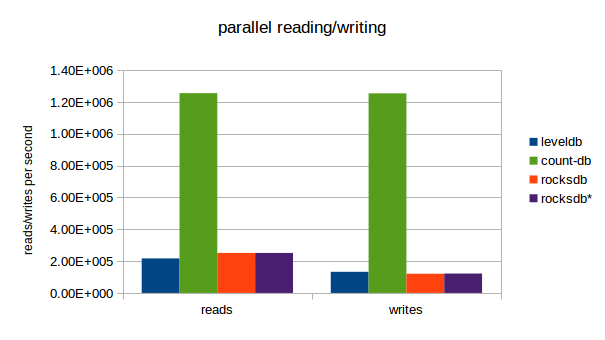
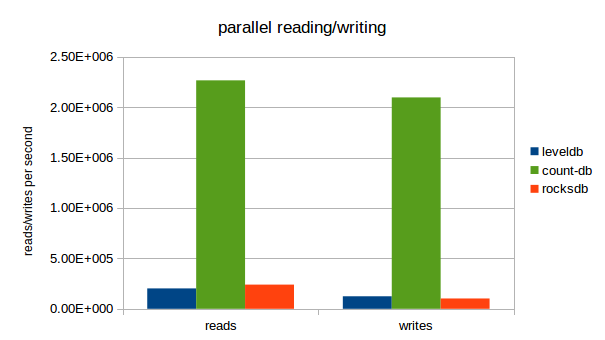
Updated documentation with new benchmark results

diff --git a/doc/performance.md b/doc/performance.md
@@ -7,30 +7,6 @@ All tests are performed on a computer with an intel i7-4770 processor, a SATA 6 
 
 The purpose of this test was to measure performance of different key-value stores *from a java program*, and thus jni bindings are used for [levelDB](https://github.com/fusesource/leveldbjni), [kyoto cabinet](http://fallabs.com/kyotocabinet/javadoc/) and [rocksDB](https://github.com/facebook/rocksdb/wiki/RocksJava-Basics). We used default parameters for all databases. 
 
-For rocksDB we experimented with using a UInt64AddOperator [merge operator](https://github.com/facebook/rocksdb/wiki/Merge-Operator) when writing long counts. These results are indicated below with an asterix (rocksDB*). Since merge operators are not yet supported in the rocksDB jni binding, we added the following hack to [rocksjni.cc](https://github.com/facebook/rocksdb/blob/master/java/rocksjni/rocksjni.cc)
-
-```
-void Java_org_rocksdb_RocksDB_open(
-    JNIEnv* env, jobject jdb, jlong jopt_handle, jstring jdb_path) {
-  auto opt = reinterpret_cast<rocksdb::Options*>(jopt_handle);
-  rocksdb::DB* db = nullptr;
-  const char* db_path = env->GetStringUTFChars(jdb_path, 0);
-  //BEGIN HACK
-  if(strstr(db_path,"_long_count_")) {
-    opt->merge_operator = MergeOperators::CreateUInt64AddOperator();
-  }
-  //END HACK
-  rocksdb::Status s = rocksdb::DB::Open(*opt, db_path, &db);
-  env->ReleaseStringUTFChars(jdb_path, db_path);
-
-  if (s.ok()) {
-    rocksdb::RocksDBJni::setHandle(env, jdb, db);
-    return;
-  }
-  rocksdb::RocksDBExceptionJni::ThrowNew(env, s);
-}
-```
-
 ## Reading and writing bigram counts
 
 The first test in [BigramTestsMain.java](https://github.com/koendeschacht/count-db/blob/master/src/main/java/be/bagofwords/main/tests/bigrams/BigramTestsMain.java) reads the database dump of the English wikipedia and counts all bigrams. First a number (varying between 1M and 256M) of bigrams is written to the database, and then the same number of bigrams is read from this database. 
@@ -39,33 +15,33 @@ The first test in [BigramTestsMain.java](https://github.com/koendeschacht/count-
 
 ![](https://raw.githubusercontent.com/koendeschacht/count-db/master/doc/write_bigram_counts.png)
 
-| million counts | levelDB   | count-db  | kyoto cabinet | rocksdb   | rocksdb*  |
-|----------------|-----------|-----------|---------------|-----------|-----------|
-| 1              | 1.95E+005 | 1.16E+006 | 1.66E+006     | 1.38E+005 | 1.35E+005 |
-| 2              | 2.03E+005 | 2.10E+006 | 1.65E+006     | 1.43E+005 | 1.47E+005 |
-| 4              | 1.97E+005 | 3.32E+006 | 1.67E+006     | 1.38E+005 | 1.44E+005 |
-| 8              | 1.84E+005 | 3.92E+006 | 1.63E+006     | 1.44E+005 | 1.47E+005 |
-| 16             | 1.68E+005 | 5.18E+006 | 1.09E+005     | 1.48E+005 | 1.49E+005 |
-| 32             | 1.60E+005 | 5.47E+006 | 4.10E+004     | 1.52E+005 | 1.51E+005 |
-| 64             | 1.56E+005 | 5.58E+006 | 2.77E+004     | 1.53E+005 | 1.53E+005 |
-| 128            | 1.47E+005 | 3.62E+006 | 2.10E+004     | 1.51E+005 | 1.52E+005 |
-| 256            | 1.49E+005 | 4.90E+006 |               | 1.56E+005 | 1.58E+005 |
+| million items | levelDB   | count-db  | kyoto cabinet | rocksDB   |
+|---------------|-----------|-----------|---------------|-----------|
+| 1             | 1.82E+005 | 1.75E+006 | 1.53E+006     | 1.13E+005 |
+| 2             | 1.49E+005 | 3.77E+006 | 1.76E+006     | 1.15E+005 |
+| 4             | 1.84E+005 | 5.30E+006 | 1.73E+006     | 1.18E+005 |
+| 8             | 1.68E+005 | 5.74E+006 | 1.69E+006     | 1.23E+005 |
+| 16            | 1.60E+005 | 4.60E+006 | 1.23E+005     | 1.29E+005 |
+| 32            | 1.50E+005 | 5.54E+006 | 4.20E+004     | 1.35E+005 |
+| 64            | 1.42E+005 | 5.62E+006 | 2.77E+004     | 1.38E+005 |
+| 128           | 1.37E+005 | 6.02E+006 | 2.68E+004     | 1.38E+005 |
+| 256           | 1.37E+005 | 6.26E+006 |               | 1.40E+005 |
 
 ### Reading
 
 ![](https://raw.githubusercontent.com/koendeschacht/count-db/master/doc/read_bigram_counts.png)
 
-| million counts | levelDB   | count-db  | kyoto cabinet  | rocksDB   | rocksDB*  |
-|----------------|-----------|-----------|----------------|-----------|-----------|
-| 1              | 1.12E+006 | 6.58E+006 | 2.12E+006      | 5.08E+005 | 5.18E+005 |
-| 2              | 1.02E+006 | 7.90E+006 | 2.07E+006      | 6.03E+005 | 6.22E+005 |
-| 4              | 9.66E+005 | 7.48E+006 | 2.00E+006      | 5.15E+005 | 5.44E+005 |
-| 8              | 9.14E+005 | 8.09E+006 | 1.93E+006      | 6.20E+005 | 6.29E+005 |
-| 16             | 8.83E+005 | 7.32E+006 | 8.16E+004      | 4.31E+005 | 4.37E+005 |
-| 32             | 8.65E+005 | 7.16E+006 | 5.04E+004      | 5.60E+005 | 4.60E+005 |
-| 64             | 8.48E+005 | 7.07E+006 | 5.09E+004      | 4.39E+005 | 4.48E+005 |
-| 128            | 8.99E+005 | 7.31E+006 | 6.22E+004      | 4.55E+005 | 5.91E+005 |
-| 256            | 8.24E+005 | 6.65E+006 |                | 4.60E+005 | 4.63E+005 |
+| million items | levelDB   | count-db  | kyoto cabinet | rocksDB   |
+|---------------|-----------|-----------|---------------|-----------|
+| 1             | 1.29E+006 | 4.19E+006 | 2.13E+006     | 7.24E+005 |
+| 2             | 1.11E+006 | 1.08E+007 | 2.07E+006     | 7.55E+005 |
+| 4             | 1.04E+006 | 1.09E+007 | 1.99E+006     | 6.48E+005 |
+| 8             | 9.73E+005 | 1.24E+007 | 1.95E+006     | 5.31E+005 |
+| 16            | 9.31E+005 | 1.24E+007 | 8.21E+004     | 5.85E+005 |
+| 32            | 9.02E+005 | 1.22E+007 | 5.02E+004     | 6.18E+005 |
+| 64            | 9.18E+005 | 1.16E+007 | 5.09E+004     | 5.39E+005 |
+| 128           | 9.60E+005 | 1.23E+007 | 5.11E+004     | 5.18E+005 |
+| 256           | 8.90E+005 | 1.12E+007 |               | 4.93E+005 |
 
 Note that the test that writes and reads 256M of counts was not finished for kyoto cabinet because it took too long.
 
@@ -75,23 +51,24 @@ The second test in [BigramTestsMain.java](https://github.com/koendeschacht/count
 
 ![](https://raw.githubusercontent.com/koendeschacht/count-db/master/doc/parallel_performance.png)
 
-| action | leveldb   | count-db  | rocksdb   | rocksdb*  |
-|--------|-----------|-----------|-----------|-----------|
-| read   | 2.17E+005 | 1.26E+006 | 2.52E+005 | 2.51E+005 |
-| write  | 1.33E+005 | 1.26E+006 | 1.21E+005 | 1.22E+005 |
+| action | levelDB   | count-db  | rocksDB   |
+|--------|-----------|-----------|-----------|
+| read   | 2.02E+005 | 2.27E+006 | 2.40E+005 |
+| write  | 1.24E+005 | 2.10E+006 | 1.03E+005 |
 
-We did not include the tests for kyoto cabinet because these took too long.
+
+The tests for for kyoto cabinet are not included because these took too long to finish.
 
 ## Reading and writing java objects
 
-The third test in [BigramTestsMain.java](https://github.com/koendeschacht/count-db/blob/master/src/main/java/be/bagofwords/main/tests/bigrams/BigramTestsMain.java) measures the performance of reading and writing java objects. This test is identical to the first test, but instead of a count, a java object, with the first word, the second word and the total count, is stored. We only show results here for 128M of bigrams.
+The third test in [BigramTestsMain.java](https://github.com/koendeschacht/count-db/blob/master/src/main/java/be/bagofwords/main/tests/bigrams/BigramTestsMain.java) measures the performance of reading and writing java objects. This test is identical to the first test, but instead of a long number, a java object with the total count is stored. The performance for writing and reading of 128M of bigrams was:
 
 ![](https://raw.githubusercontent.com/koendeschacht/count-db/master/doc/java_objects_performance.png)
 
-| action | leveldb   | count-db  | kyoto     | rocksdb   |
-|--------|-----------|-----------|-----------|-----------|
-| read   | 6.28E+005 | 3.83E+006 | 6.61E+004 | 4.37E+005 |
-| write  | 7.73E+004 | 1.14E+006 | 5.08E+003 | 8.41E+004 |
+| action | levelDB   | count-db  | kyoto cabinet | rocksDB   |
+|--------|-----------|-----------|---------------|-----------|
+| read   | 7.39E+005 | 4.24E+006 | 6.61E+004     | 4.53E+005 |
+| write  | 7.88E+004 | 2.60E+006 | 5.08E+003     | 9.55E+004 |
 
 
 ## Reading and writing uniform counts
@@ -100,7 +77,7 @@ The three previous tests all use bigram counts. This data follows a [power law](
 
 ![](https://raw.githubusercontent.com/koendeschacht/count-db/master/doc/uniform_counts_performance.png)
 
-| action | leveldb   | count-db  | kyoto     | rocksdb   | rocksdb*  |
-|--------|-----------|-----------|-----------|-----------|-----------|
-| reads  | 8.32E+005 | 1.04E+007 | 1.93E+006 | 6.29E+005 | 5.90E+005 |
-| writes | 1.56E+005 | 5.59E+006 | 2.01E+006 | 1.07E+005 | 1.08E+005 |
+| action | levelDB   | count-db  | kyoto cabinet | rocksDB   |
+|--------|-----------|-----------|---------------|-----------|
+| read   | 8.32E+005 | 2.21E+007 | 1.93E+006     | 6.29E+005 |
+| write  | 1.56E+005 | 1.93E+007 | 2.01E+006     | 1.07E+005 |

diff --git a/README.md b/README.md
@@ -9,7 +9,7 @@ You want to use count-db if you need to write and read billions of counts very e
 
 ## Performance
 
-We compared the performance of count-db to 3 other key-value stores: [levelDB](https://github.com/google/leveldb), [kyoto cabinet](http://fallabs.com/kyotocabinet/) and [rocksDB](http://rocksdb.org/).  count-db outperforms all three, it is for example 32 times faster than levelDB when writing 256M bigram counts and 8 times faster than levelDB when reading from these counts. 
+We compared the performance of count-db to 3 other key-value stores: [levelDB](https://github.com/google/leveldb), [kyoto cabinet](http://fallabs.com/kyotocabinet/) and [rocksDB](http://rocksdb.org/).  count-db outperforms all three, it is for example 45 times faster than levelDB when writing 256M bigram counts and 12 times faster than levelDB when reading from these counts. 
 
 ![](https://raw.githubusercontent.com/koendeschacht/count-db/master/doc/write_bigram_counts.png)
 
@@ -25,7 +25,7 @@ Include the following maven dependency in your project
 <dependency>
     <groupId>be.bagofwords</groupId>
     <artifactId>count-db</artifactId>
-    <version>1.0.2</version>
+    <version>1.1.0</version>
 </dependency>
 ```
 
